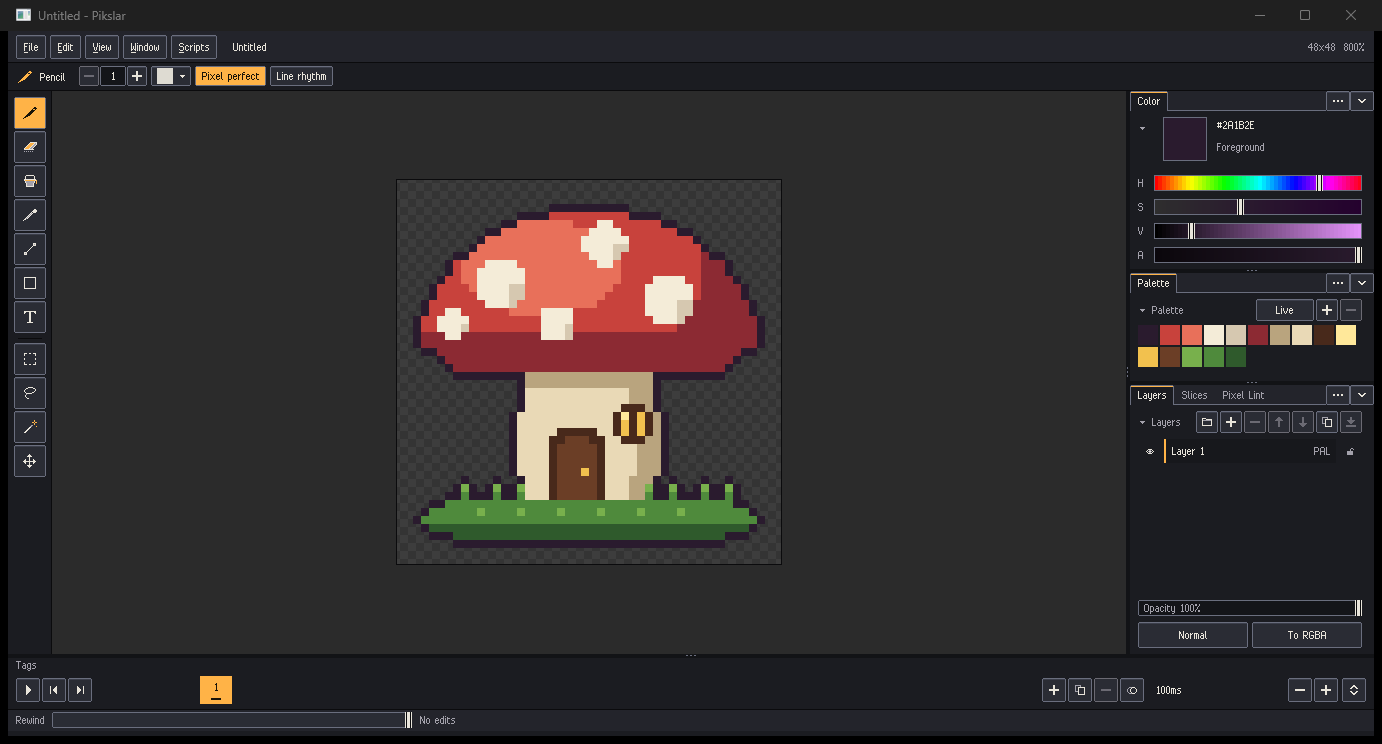
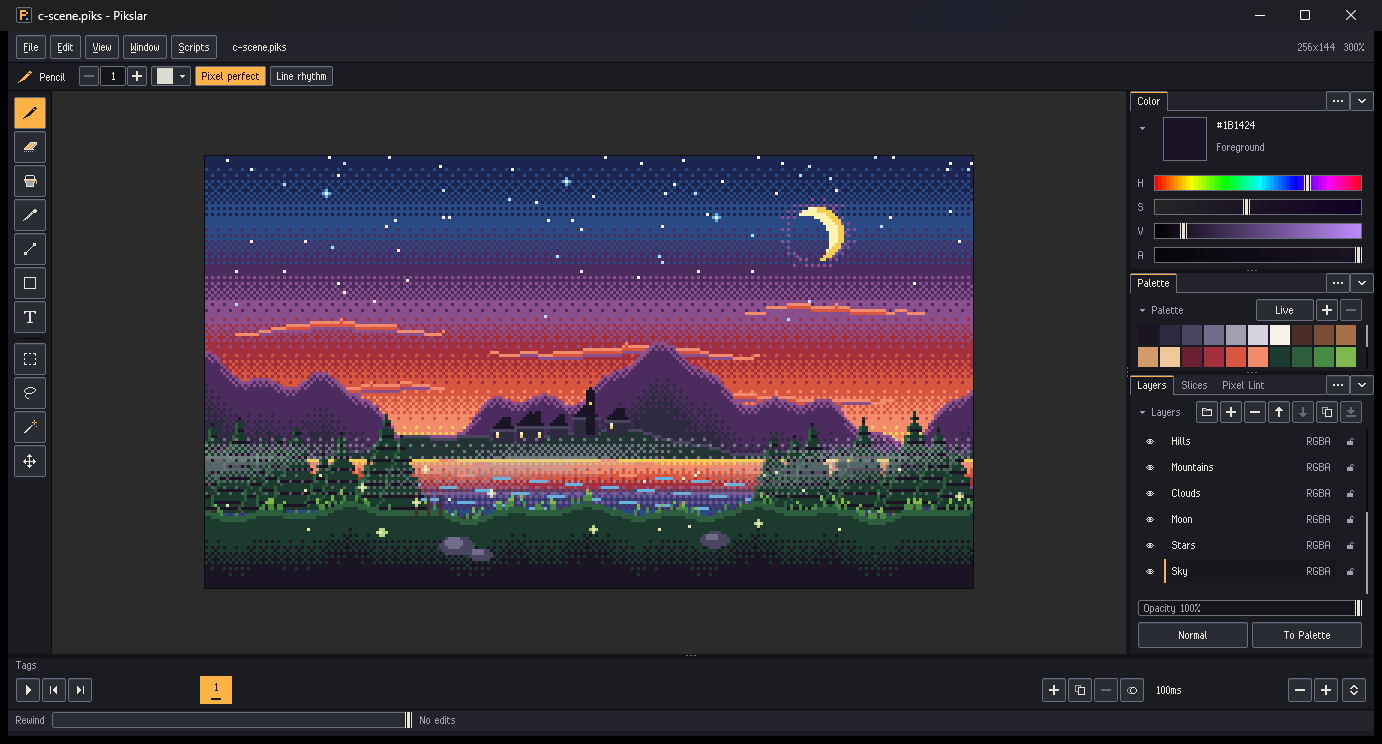
docs: new site screenshots, an animation section and a fresh social preview

diff --git a/site/index.html b/site/index.html
@@ -18,7 +18,7 @@
 <meta property="og:image" content="assets/og.png">
 <meta property="og:image:width" content="1280">
 <meta property="og:image:height" content="640">
-<meta property="og:image:alt" content="The Pikslar editor with a pixel-art mushroom house on the canvas, beside the Pikslar name.">
+<meta property="og:image:alt" content="The Pikslar editor with a pixel-art night scene of a lake village under a crescent moon, beside the Pikslar name.">
 <meta name="twitter:card" content="summary_large_image">
 <link rel="stylesheet" href="assets/site.css">
 <script src="assets/site.js" defer></script>
@@ -54,7 +54,7 @@
         <span class="note">Beta. No public download yet.</span>
       </div>
       <figure class="shot">
-        <img src="assets/img/editor-2x.png" width="1936" height="1042" alt="The Pikslar window: a tool column on the left, a pixel-art mushroom house on the canvas, palette and preview panels on the right, and the timeline below." fetchpriority="high">
+        <img src="assets/img/editor-2x.png" width="1936" height="1042" alt="The Pikslar window: a tool column on the left, a pixel-art night scene of a lake village under a crescent moon on the canvas, and the colour, palette and layers panels on the right." fetchpriority="high">
         <figcaption>The Draw workspace at 2× interface scale. Screenshot of the program itself; the artwork was drawn for Pikslar's tests.</figcaption>
       </figure>
     </div>
@@ -90,7 +90,7 @@
       </div>
 
       <div class="feature">
-        <div class="feature-media"><img src="assets/img/editor-1x.png" width="1382" height="744" loading="lazy" alt="Pikslar at 1× interface scale: the mushroom house on the canvas with the colour, palette and layers panels open."></div>
+        <div class="feature-media"><img src="assets/img/editor-1x.png" width="1382" height="744" loading="lazy" alt="Pikslar at 1× interface scale: the night scene on the canvas with the colour, palette and layers panels open."></div>
         <div class="feature-text">
           <h3>Workspaces for each kind of work</h3>
           <p>Draw, Animate, Tiles, Palette and others each arrange the panels for that job. The context bar above the canvas holds only what the current tool needs.</p>
@@ -99,7 +99,16 @@
       </div>
 
       <div class="feature flip">
-        <div class="feature-media"><img src="assets/img/export-1x.png" width="1382" height="744" loading="lazy" alt="The Export dialog over the Pikslar window, with format, frames, layers and scale options."></div>
+        <div class="feature-media"><img src="assets/img/animate-1x.png" width="1382" height="744" loading="lazy" alt="The Animate workspace: a walking wizard sprite on the canvas, a live preview on the right, and the timeline below with idle and walk tags over twelve frames."></div>
+        <div class="feature-text">
+          <h3>Animation on a real timeline</h3>
+          <p>Every layer against every frame, with tags for each cycle, frame timing and a live preview at true size beside the canvas.</p>
+          <ul><li>Tags for idle, walk and every other cycle</li><li>Linked cels, holds and onion skin</li><li>Position tweens with easing</li></ul>
+        </div>
+      </div>
+
+      <div class="feature">
+        <div class="feature-media"><img src="assets/img/export-1x.png" width="1382" height="744" loading="lazy" alt="The Export dialog over the night scene, with format, frames, layers and scale options."></div>
         <div class="feature-text">
           <h3>Export for wherever the sprite is going</h3>
           <p>One dialog covers single frames, sheets with a JSON description, sequences and animated files. The same exports run from <code>pikslar-cli</code> for build scripts.</p>
@@ -107,8 +116,8 @@
         </div>
       </div>
 
-      <div class="feature">
-        <div class="feature-media"><img src="assets/img/contrast-black-1x.png" width="1382" height="744" loading="lazy" alt="Pikslar drawn in Windows high-contrast colours: black surfaces with white outlines and text."></div>
+      <div class="feature flip">
+        <div class="feature-media"><img src="assets/img/contrast-black-1x.png" width="1382" height="744" loading="lazy" alt="Pikslar drawn in Windows high-contrast colours: black surfaces with white outlines and text, around the night scene."></div>
         <div class="feature-text">
           <h3>Keyboard first, and high contrast</h3>
           <p>Tab reaches every control, menus and dialogs work from the keyboard, and a keyboard cursor can draw. Pikslar follows Windows high contrast and Windows text size.</p>

diff --git a/site/guide.html b/site/guide.html
@@ -18,7 +18,7 @@
 <meta property="og:image" content="assets/og.png">
 <meta property="og:image:width" content="1280">
 <meta property="og:image:height" content="640">
-<meta property="og:image:alt" content="The Pikslar editor with a pixel-art mushroom house on the canvas, beside the Pikslar name.">
+<meta property="og:image:alt" content="The Pikslar editor with a pixel-art night scene of a lake village under a crescent moon, beside the Pikslar name.">
 <meta name="twitter:card" content="summary_large_image">
 <link rel="stylesheet" href="assets/site.css">
 <script src="assets/site.js" defer></script>

diff --git a/docs/site/README.md b/docs/site/README.md
@@ -45,7 +45,7 @@ To make it again after the screenshots change (Windows PowerShell, System.Drawin
 canvas's rectangle inside the screenshot, in the screenshot's own pixels:
 
 ```powershell
-powershell -NoProfile -File docs\site\make-social-preview.ps1 -Shot site\assets\img\editor-2x.png -Crop "492,166,576,576" -Out site\assets\og.png
+powershell -NoProfile -File docs\site\make-social-preview.ps1 -Shot site\assets\img\editor-2x.png -Crop "640,222,576,576" -Out site\assets\og.png
 ```
 
 ## Keeping it current
